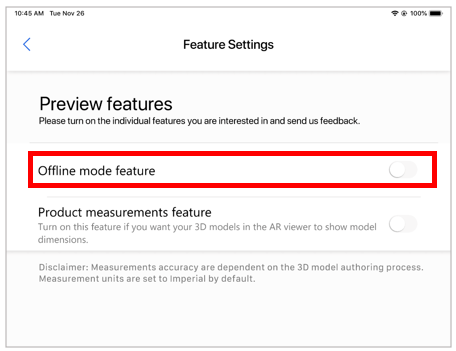
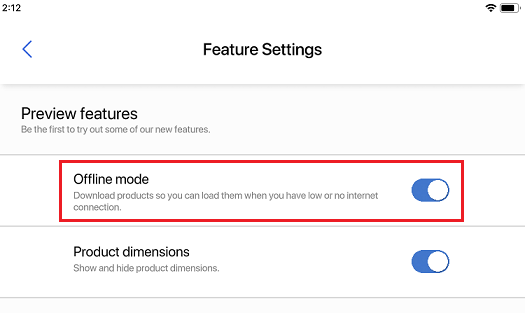
image update

Changed region(s): [[0.0, 0.0, 1.0, 1.0], [0.3684, 0.115, 0.614, 0.2013]]

diff --git a/mr-docs/product-visualize/download-models.md b/mr-docs/product-visualize/download-models.md
@@ -22,9 +22,9 @@ You can download models to use offline when you're away from a cellular network 
 
    ![Preview features](media/preview-features.PNG "Preview features")
 
-2. In the **Feature Settings** screen, under **Preview features**, slide the **Offline mode feature** setting to On.
+2. In the **Feature Settings** screen, under **Preview features**, slide the **Offline mode** toggle to On.
 
-   ![Offline mode feature setting](media/offline-mode.PNG "Offline mode feature setting")
+   ![Offline mode feature](media/offline-mode.png "Offline mode feature")
    
 3. Close the Dynamics 365 Product Visualize app, and then restart it.
 

diff --git a/mr-docs/product-visualize/product-dimensions.md b/mr-docs/product-visualize/product-dimensions.md
@@ -26,7 +26,7 @@ To enable product dimensions:
 2. In the **Feature Settings** screen, under **Preview features**, slide the **Product dimensions** toggle to **On**.
 
     > [!div class=mx-imgBorder]
-    > ![Product dimensions feature](media/product-measurements-feature.png "Product dimensions feature")
+    > ![Product dimensions feature](media/product-dimensions-feature.png "Product dimensions feature")
 
 ## Set measurement units
 
